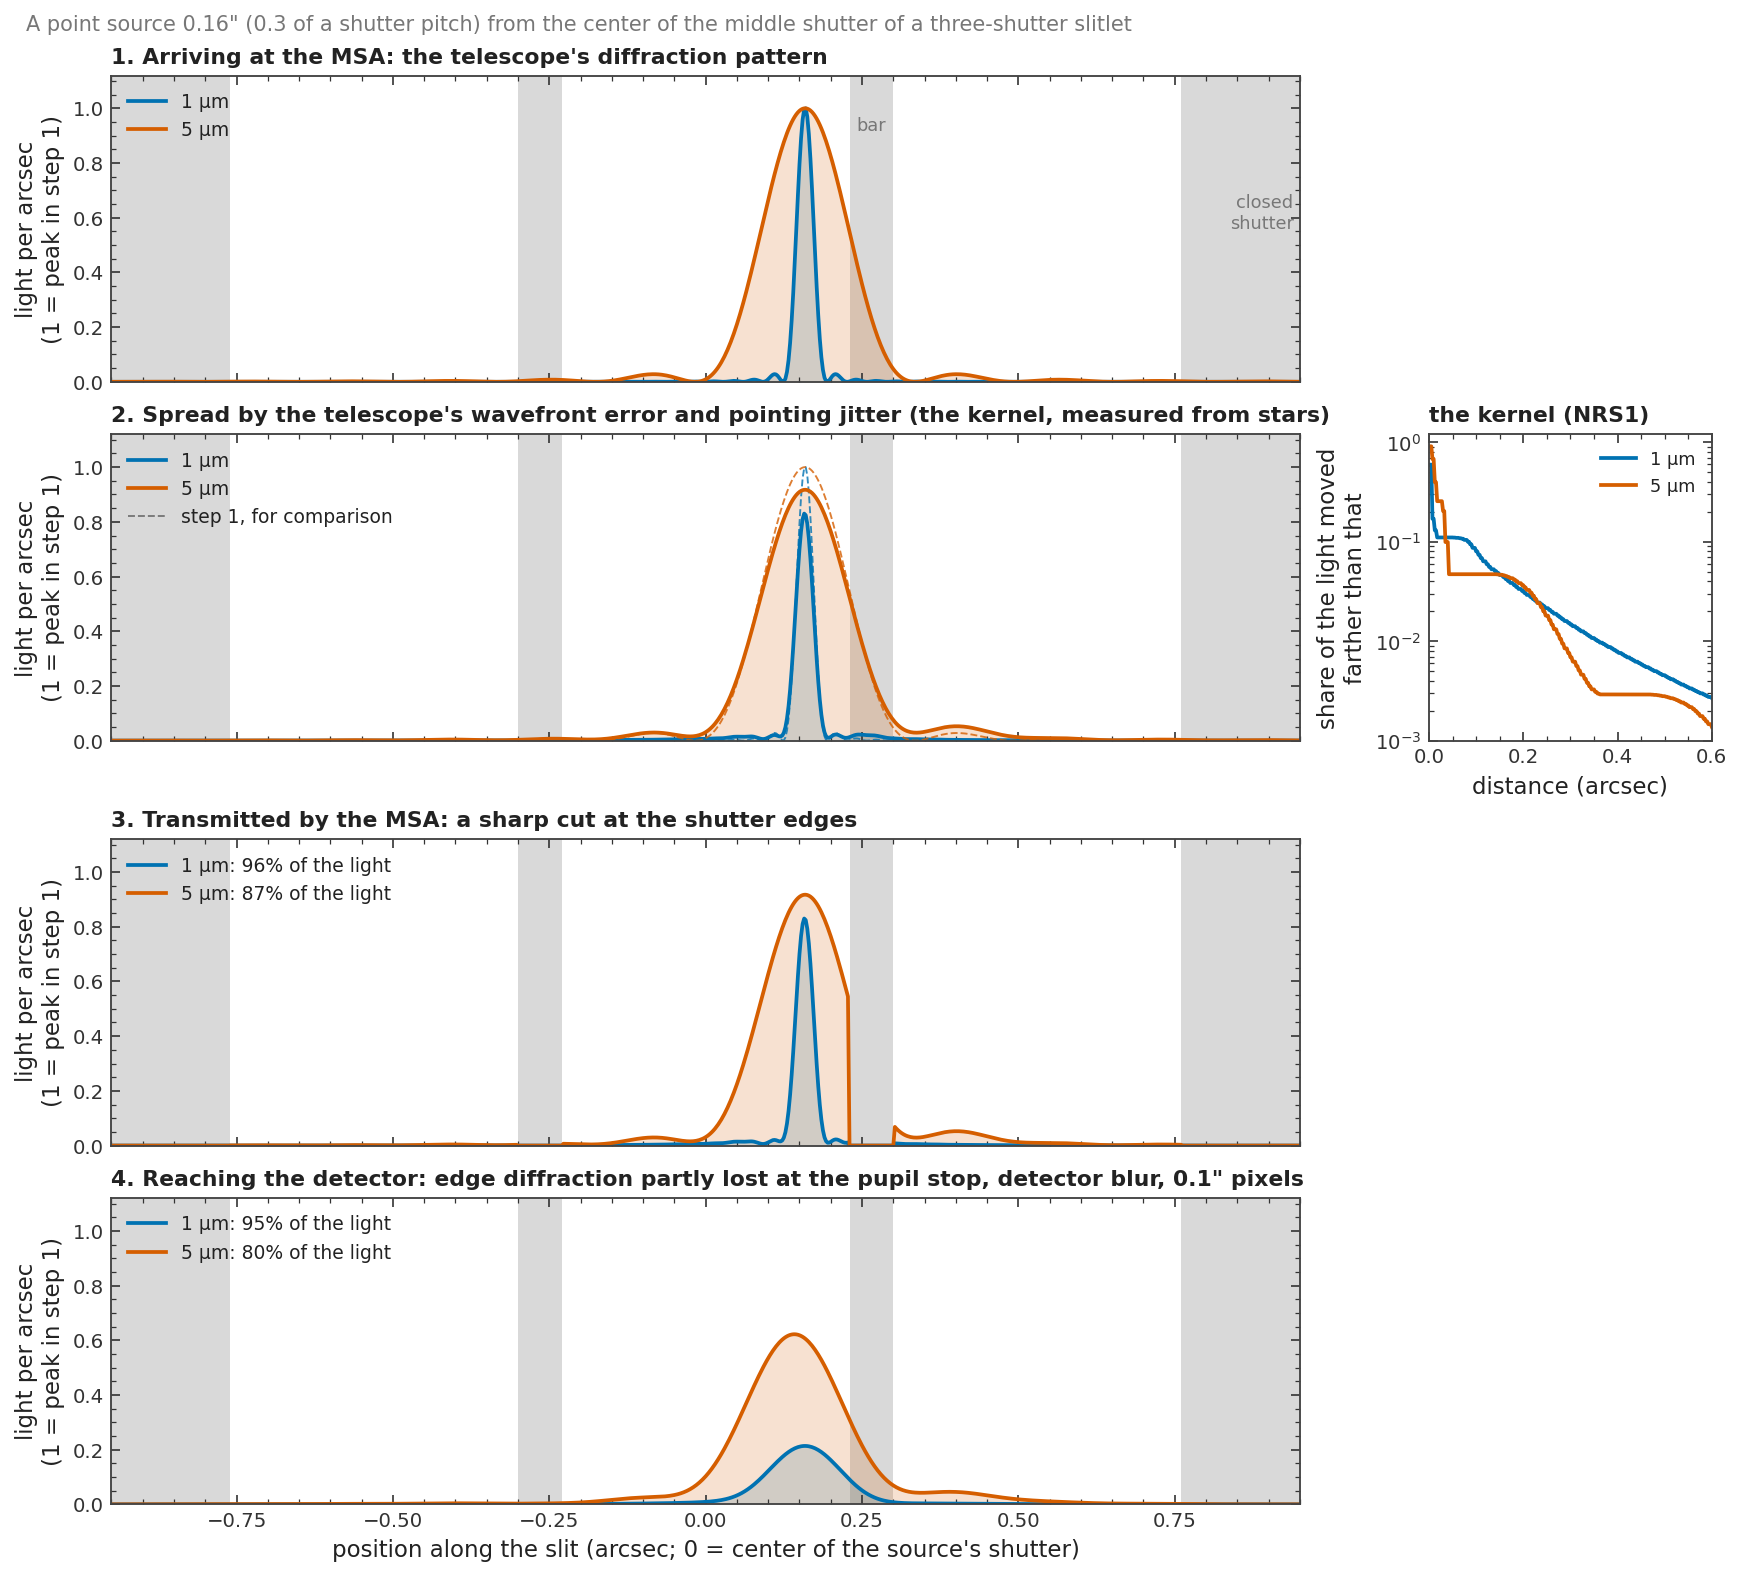
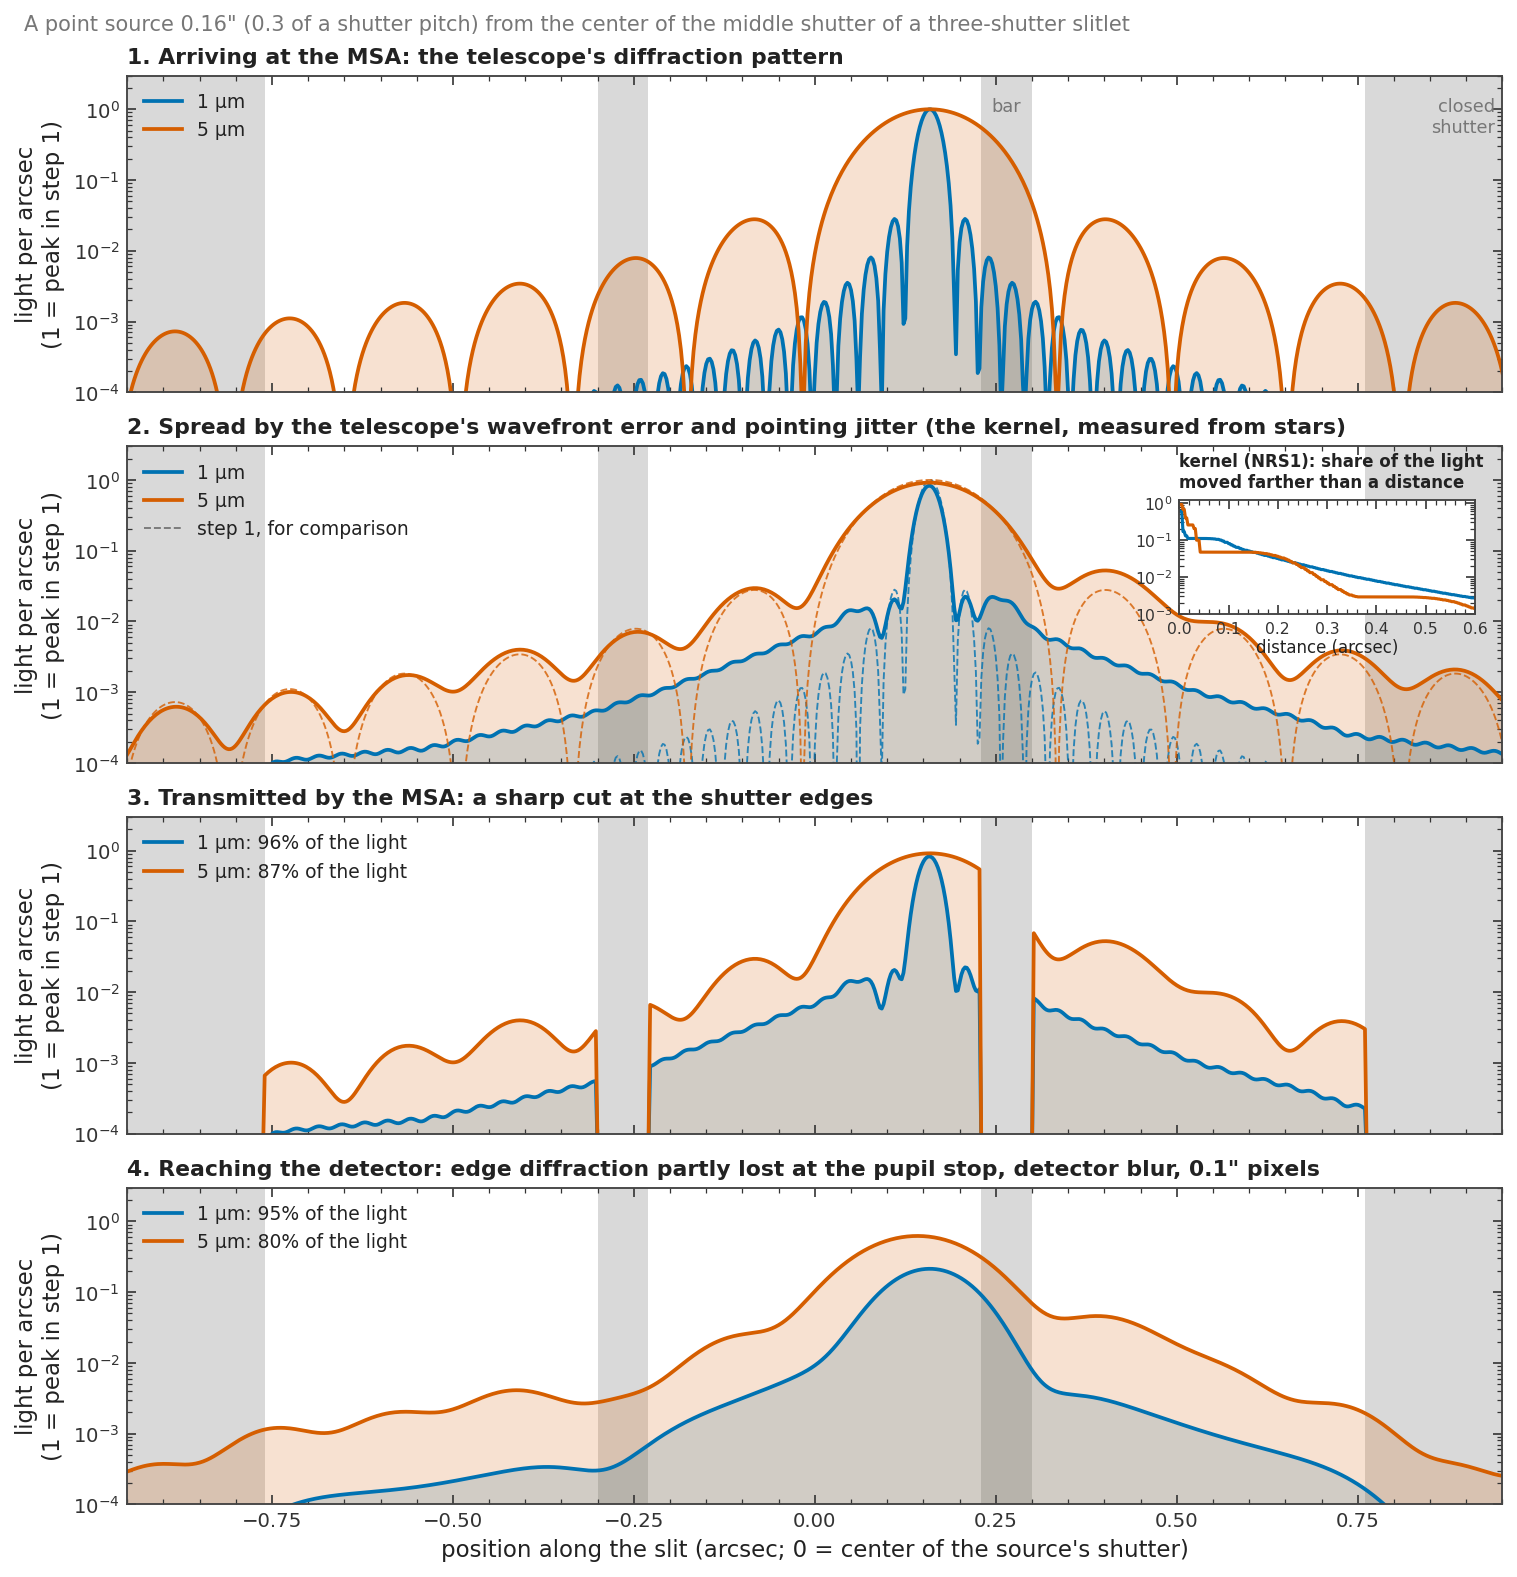
docs: optics steps on log axes, the kernel as an inset in step 2
Claude-Session: https://claude.ai/code/session_019a5zAqWZLmp6Vb2WHQdrWE

diff --git a/scripts/docs/nirspec/fig_optics_steps.py b/scripts/docs/nirspec/fig_optics_steps.py
@@ -81,11 +81,8 @@ titles = ("1. Arriving at the MSA: the telescope's diffraction pattern",
           "2. Spread by the telescope's wavefront error and pointing jitter (the kernel, measured from stars)",
           '3. Transmitted by the MSA: a sharp cut at the shutter edges',
           '4. Reaching the detector: edge diffraction partly lost at the pupil stop, detector blur, 0.1" pixels')
-fig = plt.figure(figsize=(11.5, 10.4), constrained_layout=True)
-gs = fig.add_gridspec(4, 2, width_ratios=[4.2, 1])
-axes = [fig.add_subplot(gs[0, 0])]
-axes += [fig.add_subplot(gs[r, 0], sharex=axes[0]) for r in (1, 2, 3)]
-top = 1.12
+fig, axes = plt.subplots(4, 1, figsize=(10, 10.4), sharex=True, constrained_layout=True)
+top, floor = 3.0, 1e-4                                                # log axis: room above the peak for the legend
 for row, (ax, title) in enumerate(zip(axes, titles)):
     for kk in (-1.5, -0.5, 0.5, 1.5):                                # the bars, and closed shutters beyond
         lo, hi = kk * O.PITCH_AS - (O.PITCH_AS / 2 - O.H_OPEN), kk * O.PITCH_AS + (O.PITCH_AS / 2 - O.H_OPEN)
@@ -101,35 +98,38 @@ for row, (ax, title) in enumerate(zip(axes, titles)):
         label = f'{lam:g} µm' + (f': {100 * share:.0f}% of the light' if share is not None else '')
         if row == 1:                                                 # step 1 for comparison
             ax.plot(y, cv['raw'] / peak, color=color, lw=0.9, ls='--', alpha=0.8)
-        ax.fill_between(y, 0, curve, color=color, alpha=0.18, lw=0)
+        curve = np.maximum(curve, floor * 0.5)
+        ax.fill_between(y, floor * 0.5, curve, color=color, alpha=0.18, lw=0)
         ax.plot(y, curve, color=color, lw=1.8, label=label)
-    ax.set_ylim(0, top)
+    ax.set_yscale('log')
+    ax.set_ylim(floor, top)
     ax.set_xlim(-0.95, 0.95)
     ax.set_ylabel('light per arcsec\n(1 = peak in step 1)')
     ax.set_title(title, fontsize=10.5, loc='left')
     ax.legend(loc='upper left', fontsize=9)
-    if row < 3:
-        ax.tick_params(labelbottom=False)
 axes[1].plot([], [], color=C.MUTED, lw=0.9, ls='--', label='step 1, for comparison')
 axes[1].legend(loc='upper left', fontsize=9)
-axes[0].text(0.5 * O.PITCH_AS, 0.82 * top, 'bar', ha='center', fontsize=8.5, color=C.MUTED)
-axes[0].text(0.94, 0.5 * top, 'closed\nshutter', ha='right', fontsize=8.5, color=C.MUTED)
+axes[0].text(0.5 * O.PITCH_AS, 0.93, 'bar', ha='center', va='top', fontsize=8.5, color=C.MUTED,
+             transform=axes[0].get_xaxis_transform())
+axes[0].text(0.94, 0.93, 'closed\nshutter', ha='right', va='top', fontsize=8.5, color=C.MUTED,
+             transform=axes[0].get_xaxis_transform())
 axes[-1].set_xlabel("position along the slit (arcsec; 0 = center of the source's shutter)")
 
-kx = fig.add_subplot(gs[1, 1])
+kx = axes[1].inset_axes([0.765, 0.47, 0.215, 0.36])                   # the kernel, inside step 2
 dist = np.abs(offs * O.SLIT)                                          # how far each shift moves the light
 s = np.linspace(0.0, 0.6, 241)
 for lam, color in zip(args.wavelengths, (C.WAVE_COLORS[0], C.WAVE_COLORS[-1])):
     k = curves[lam]['kernel']                                         # on the pipeline's uniform grid, sum 1
     beyond = np.array([k[dist > v].sum() for v in s])
-    kx.plot(s, np.maximum(beyond, 1e-5), color=color, lw=1.8, label=f'{lam:g} µm')
+    kx.plot(s, np.maximum(beyond, 1e-5), color=color, lw=1.5)
 kx.set_yscale('log')
 kx.set_ylim(1e-3, 1.2)
 kx.set_xlim(0, 0.6)
-kx.set_xlabel('distance (arcsec)')
-kx.set_ylabel('share of the light moved\nfarther than that')
-kx.set_title(f'the kernel ({args.detector})', fontsize=10.5, loc='left')
-kx.legend(loc='upper right', fontsize=8.5)
+kx.tick_params(labelsize=7.5)
+kx.set_xlabel('distance (arcsec)', fontsize=8, labelpad=1)
+kx.set_title(f'kernel ({args.detector}): share of the light\nmoved farther than a distance', fontsize=8,
+             loc='left')
+kx.patch.set_facecolor('white')
 fig.suptitle(f'A point source {args.position * O.PITCH_AS:.2f}" ({args.position:g} of a shutter pitch) from the '
              'center of the middle shutter of a three-shutter slitlet', x=0.01, ha='left', fontsize=10,
              color=C.MUTED)

diff --git a/web/lib/docs/content/reduction/nirspec/slit-losses.md b/web/lib/docs/content/reduction/nirspec/slit-losses.md
@@ -8,7 +8,7 @@ An MSA shutter is about 0.2″ wide and 0.46″ tall on the sky, smaller than th
 
 The model follows the light through the instrument in four steps.
 
-![The light of one point source, 0.16″ (0.3 of a shutter pitch) from the center of the middle shutter of a three-shutter slitlet, along the slit at 1 µm (blue) and 5 µm (orange). 1: the telescope's diffraction pattern arriving at the MSA; at 5 µm it is several times wider and reaches the bar. 2: the same image spread by the kernel (dashed: step 1). At 1 µm the kernel lowers the peak and moves some light onto the bar; at 5 µm the image is already wide and barely changes. Right: how much of the light the kernel moves farther than a given distance. 3: the shutter cuts the image sharply at its edges. 4: on the detector, after the light diffracted at the shutter edges is partly lost at the pupil stop, and after the detector's blur.](/docs/nirspec/optics_steps.png)
+![The light of one point source, 0.16″ (0.3 of a shutter pitch) from the center of the middle shutter of a three-shutter slitlet, along the slit at 1 µm (blue) and 5 µm (orange), on a log scale so the faint light shows. 1: the telescope's diffraction pattern arriving at the MSA, its rings several times wider at 5 µm. 2: the same image spread by the kernel (dashed: step 1). The kernel fills in the rings and moves a little light onto the bar and into the neighboring shutters; at 5 µm the image is already wide and changes less. Inset: how much of the light the kernel moves farther than a given distance. 3: the shutters cut the image sharply at their edges; the neighboring open shutters pass the light that reaches them. 4: on the detector, after the light diffracted at the shutter edges is partly lost at the pupil stop, and after the detector's blur.](/docs/nirspec/optics_steps.png)
 
 1. **Arriving at the MSA.** The telescope's diffraction pattern, computed from its 6.5 m pupil for each wavelength.
 2. **Spread by the kernel.** The telescope's wavefront error and the pointing jitter during an exposure move a source's light by small amounts before it reaches the MSA. The kernel says how much light lands at each shift; it is a table measured from calibration stars, one per detector, changing smoothly with wavelength. Every shifted copy of the image then goes through the next two steps on its own. Uniform light does not feel the kernel (shifting uniform light changes nothing), so the stars, not the empty shutters, fix it.
